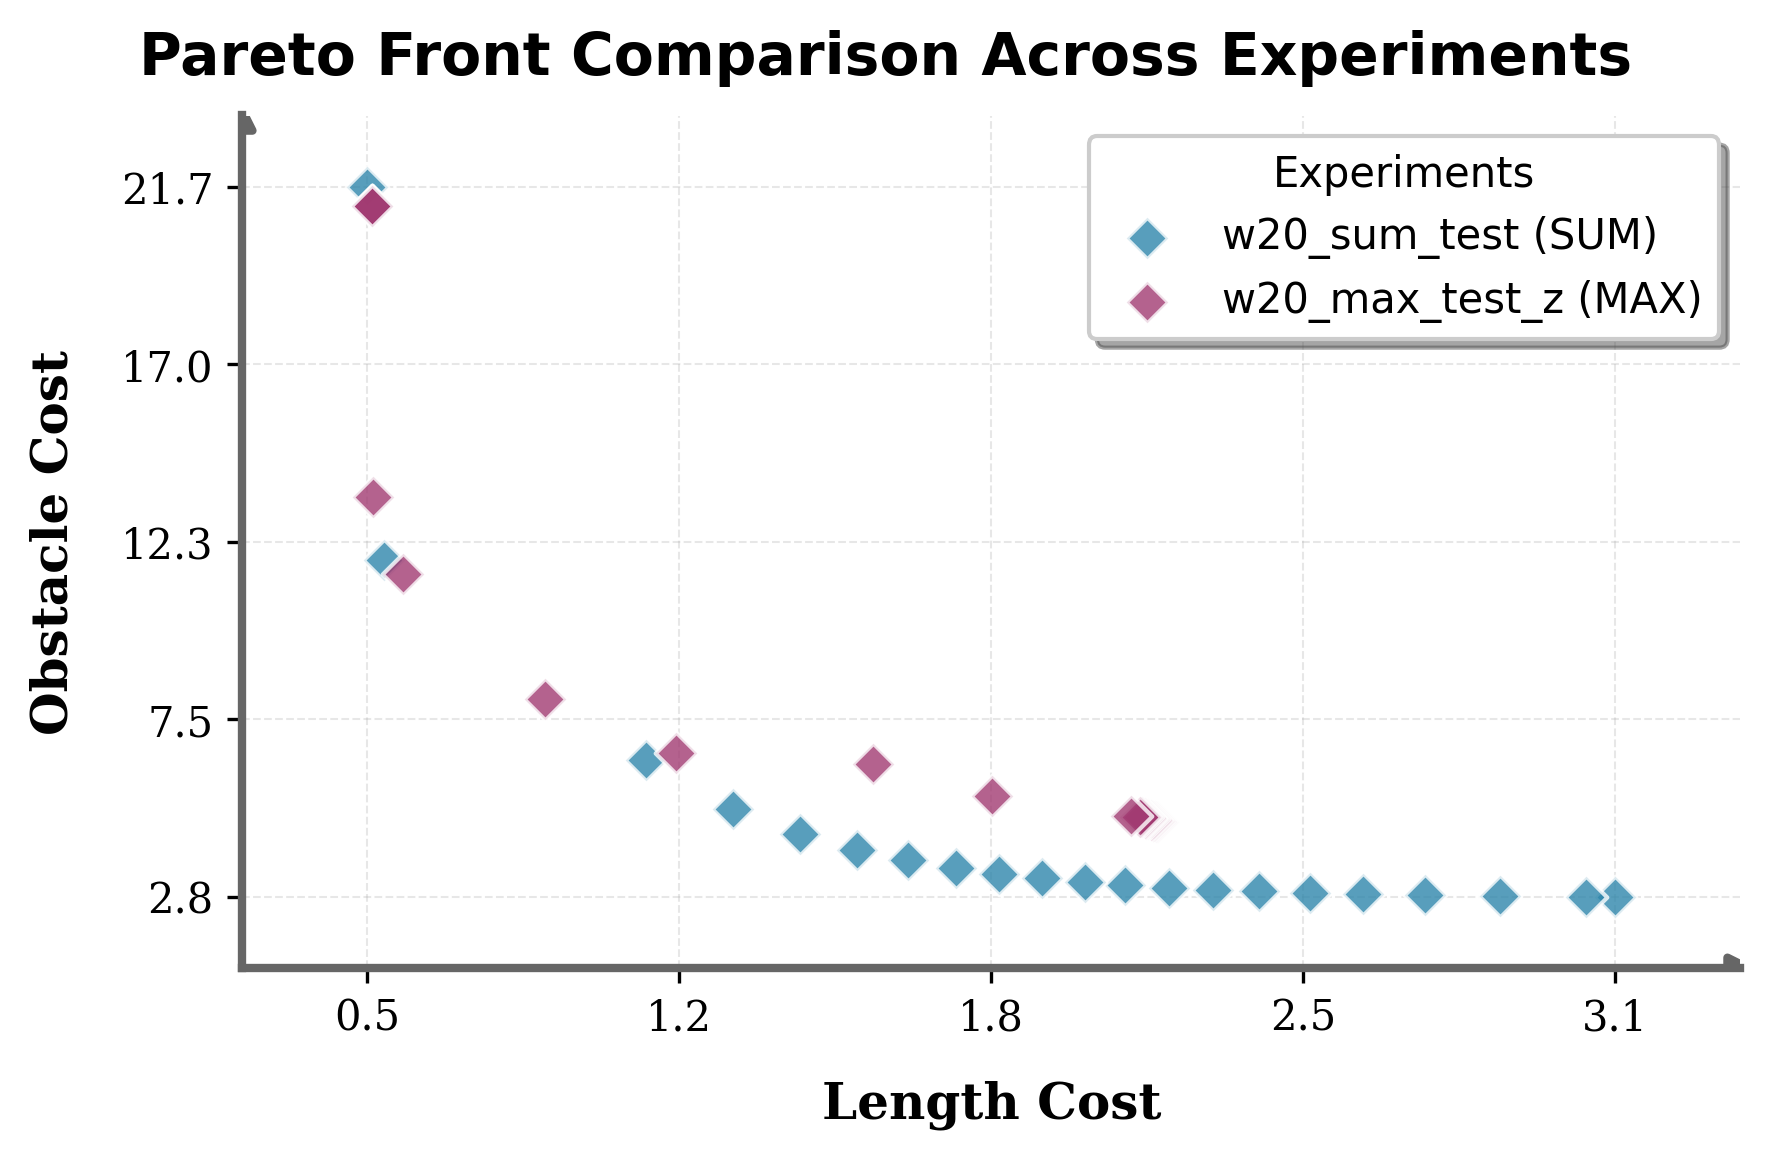
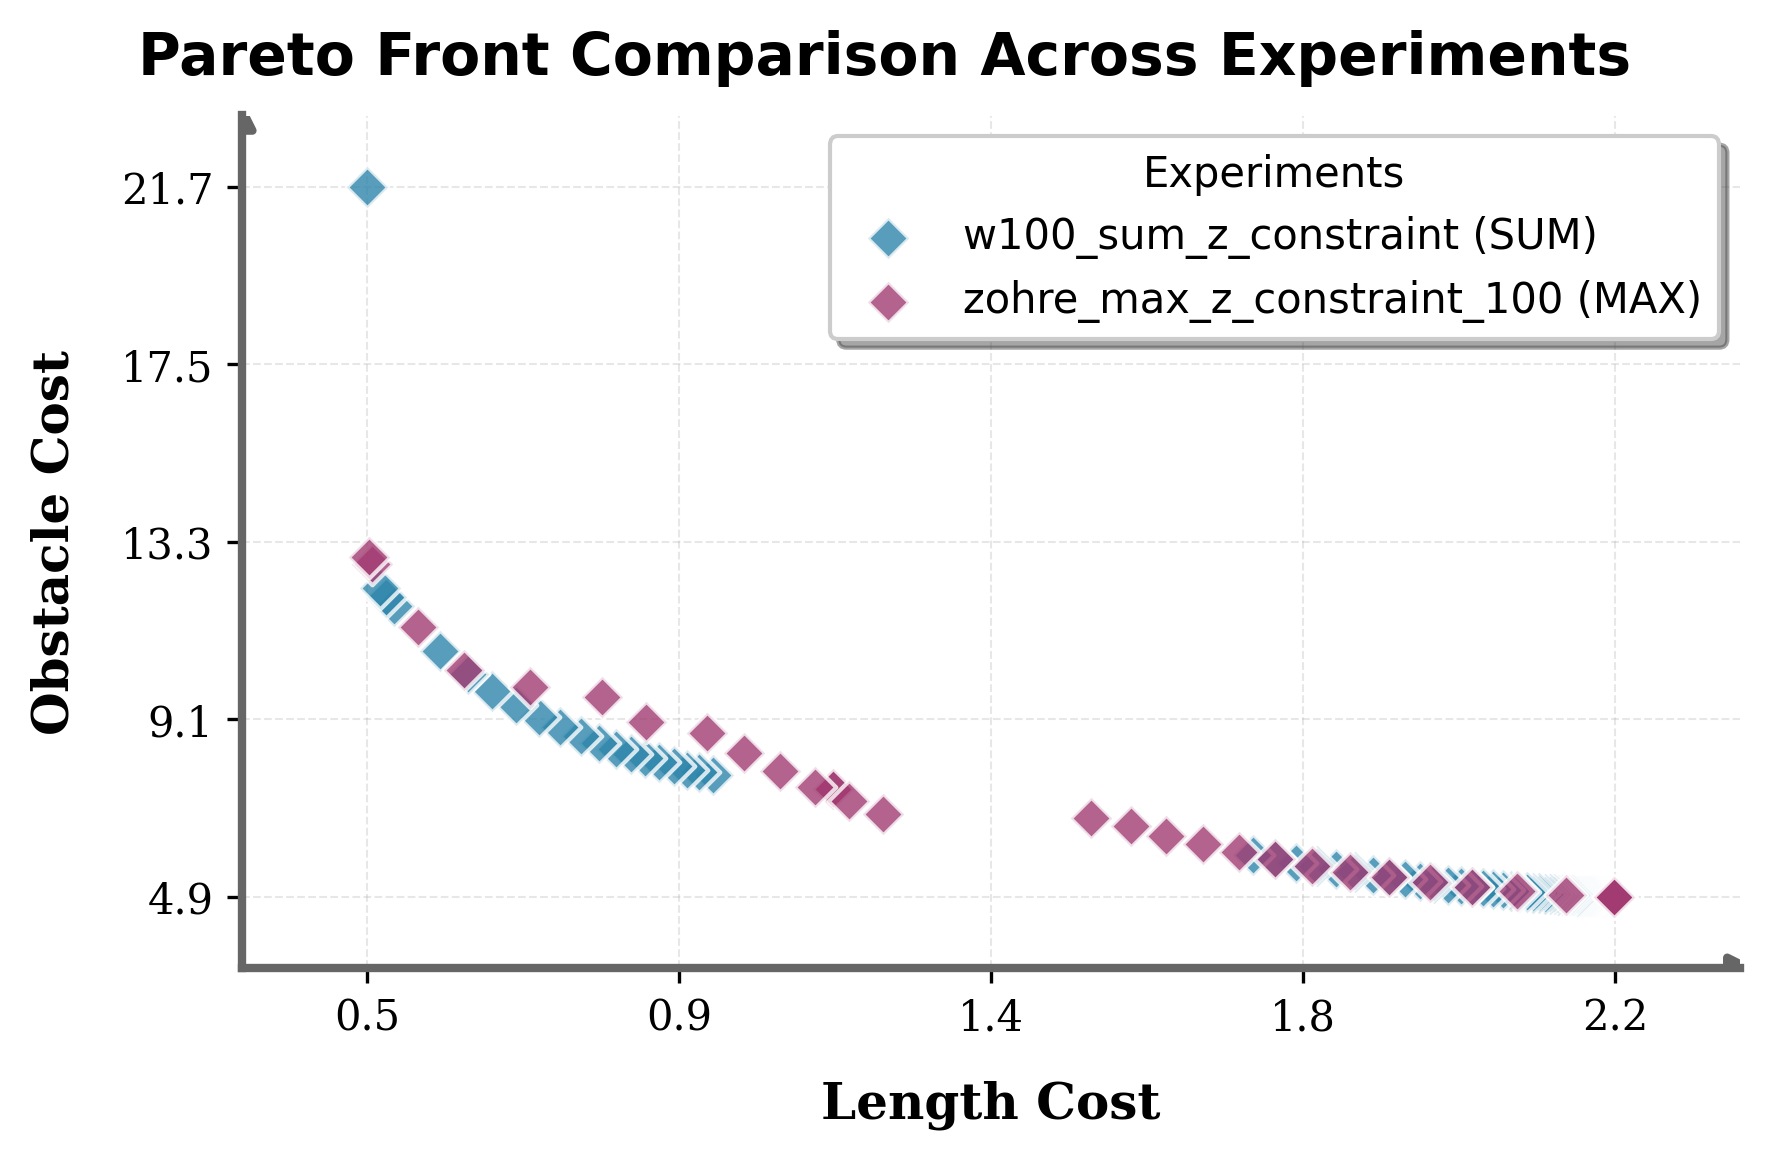
compare pareto on the same plot

diff --git a/src/viz/compare_experiments.py b/src/viz/compare_experiments.py
@@ -26,8 +26,8 @@ from trajectory_loader import TrajectoryLoader
 
 # EXPERIMENT DIRECTORIES TO COMPARE
 EXPERIMENT_DIRECTORIES = [
-    "src/pareto_data_and_results/w20_sum_test",
-    "src/pareto_data_and_results/w20_max_test_z"
+    "src/pareto_data_and_results/w100_sum_z_constraint",
+    "src/pareto_data_and_results/zohre_max_z_constraint_100"
 ]
 
 # Color palette for experiments
